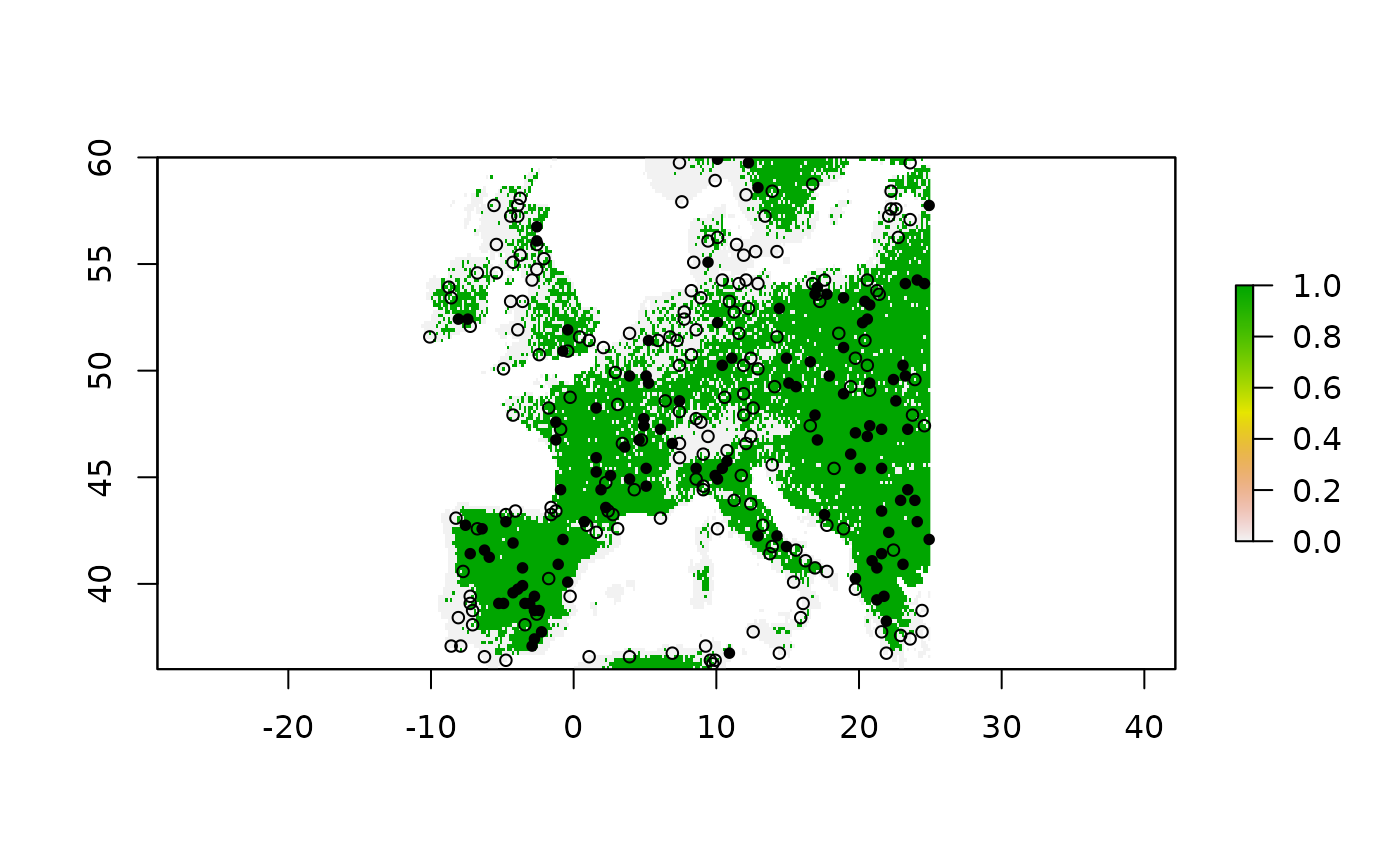
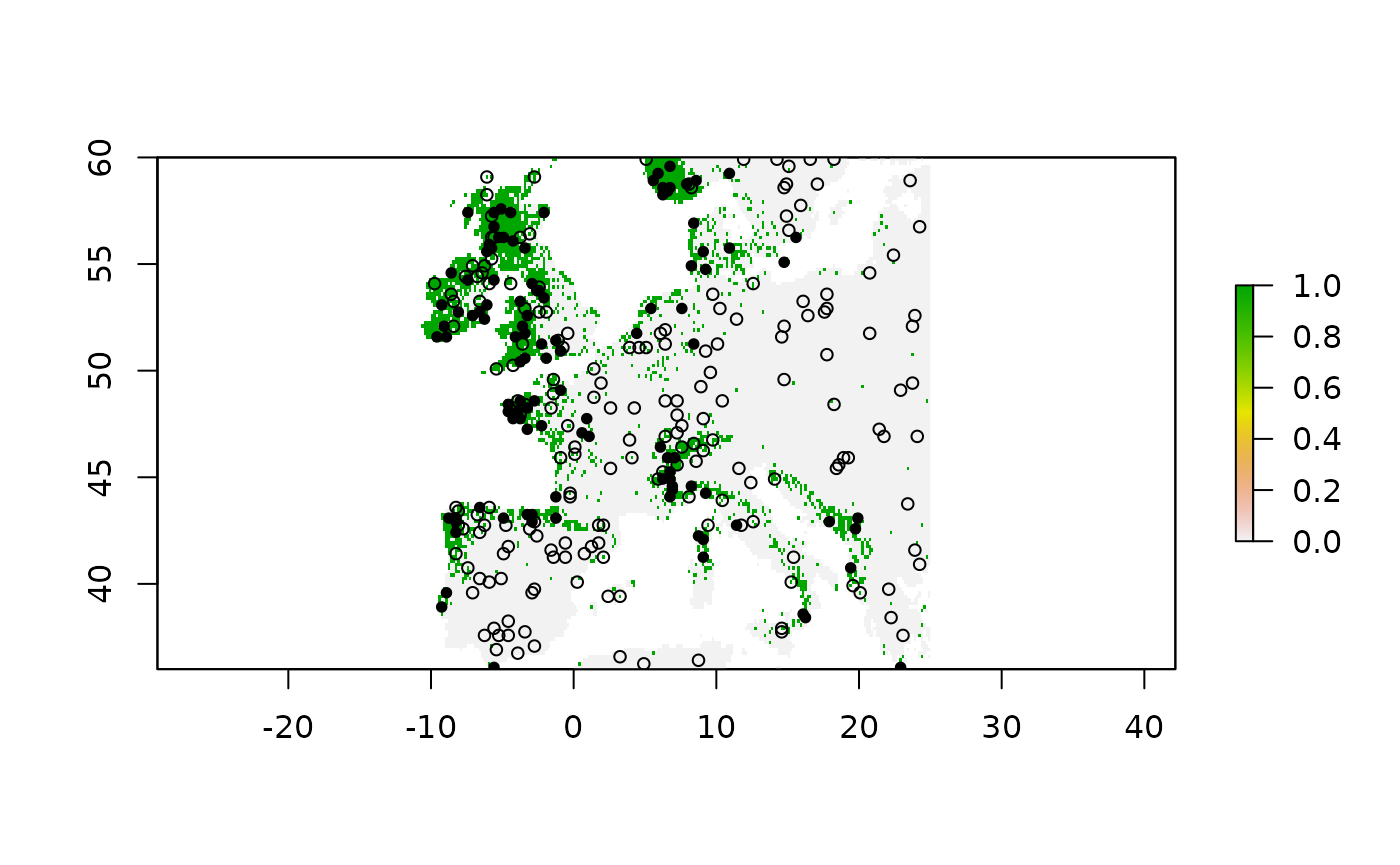
update website4

Changed region(s): [[0.2764, 0.1561, 0.6757, 0.7803], [0.43, 0.7491, 0.5221, 0.7803]]

diff --git a/docs/articles/USE_vignette.html b/docs/articles/USE_vignette.html
@@ -124,8 +124,8 @@ of the <strong>virtualspecies</strong> R package</p>
 <span class="fu"><a href="https://rdrr.io/pkg/raster/man/projection.html" class="external-link">crs</a></span><span class="op">(</span><span class="va">myPres</span><span class="op">)</span><span class="op">&lt;-</span><span class="va">myCRS</span>
 <span class="va">myPres</span>
 <span class="co">#&gt; class       : SpatialPointsDataFrame </span>
-<span class="co">#&gt; features    : 121 </span>
-<span class="co">#&gt; extent      : -8.083333, 24.91667, 36.75, 59.91667  (xmin, xmax, ymin, ymax)</span>
+<span class="co">#&gt; features    : 111 </span>
+<span class="co">#&gt; extent      : -9.583333, 22.91667, 36.08333, 59.58333  (xmin, xmax, ymin, ymax)</span>
 <span class="co">#&gt; crs         : +proj=longlat +datum=WGS84 +no_defs </span>
 <span class="co">#&gt; variables   : 1</span>
 <span class="co">#&gt; names       : Observed </span>
@@ -159,18 +159,18 @@ axes to create a new spatial object.</p>
 <code class="sourceCode R"><span class="fu"><a href="https://rdrr.io/r/utils/str.html" class="external-link">str</a></span><span class="op">(</span><span class="va">myObs</span><span class="op">)</span>
 <span class="co">#&gt; List of 2</span>
 <span class="co">#&gt;  $ Bkg.tr:Classes 'sf', 'data.table' and 'data.frame':   152 obs. of  4 variables:</span>
-<span class="co">#&gt;   ..$ x       : num [1:152] 9.08 9.25 8.75 22.58 9.42 ...</span>
-<span class="co">#&gt;   ..$ y       : num [1:152] 59.7 59.7 59.9 49.1 59.7 ...</span>
-<span class="co">#&gt;   ..$ ID      : chr [1:152] "132" "133" "25" "8504" ...</span>
-<span class="co">#&gt;   ..$ geometry:sfc_POINT of length 152; first list element:  'XY' num [1:2] -2.76 -2.65</span>
+<span class="co">#&gt;   ..$ x       : num [1:152] 9.25 8.92 9.25 9.08 10.08 ...</span>
+<span class="co">#&gt;   ..$ y       : num [1:152] 59.7 59.9 59.9 59.9 59.9 ...</span>
+<span class="co">#&gt;   ..$ ID      : chr [1:152] "133" "26" "28" "27" ...</span>
+<span class="co">#&gt;   ..$ geometry:sfc_POINT of length 152; first list element:  'XY' num [1:2] -3.43 -2.76</span>
 <span class="co">#&gt;   ..- attr(*, "sf_column")= chr "geometry"</span>
 <span class="co">#&gt;   ..- attr(*, "agr")= Factor w/ 3 levels "constant","aggregate",..: NA NA NA</span>
 <span class="co">#&gt;   .. ..- attr(*, "names")= chr [1:3] "x" "y" "ID"</span>
 <span class="co">#&gt;  $ Bkg.ts:Classes 'sf', 'data.table' and 'data.frame':   58 obs. of  4 variables:</span>
-<span class="co">#&gt;   ..$ x       : num [1:58] -8.75 20.08 -8.25 -8.75 -10.42 ...</span>
-<span class="co">#&gt;   ..$ y       : num [1:58] 40.9 39.7 41.7 42.4 52.1 ...</span>
-<span class="co">#&gt;   ..$ ID      : chr [1:58] "15964" "16870" "15323" "14751" ...</span>
-<span class="co">#&gt;   ..$ geometry:sfc_POINT of length 58; first list element:  'XY' num [1:2] 1.77 5.93</span>
+<span class="co">#&gt;   ..$ x       : num [1:58] -8.25 6.42 19.42 -8.92 -5.42 ...</span>
+<span class="co">#&gt;   ..$ y       : num [1:58] 41.6 37.1 42.1 43.4 55.7 ...</span>
+<span class="co">#&gt;   ..$ ID      : chr [1:58] "15458" "18322" "15143" "13809" ...</span>
+<span class="co">#&gt;   ..$ geometry:sfc_POINT of length 58; first list element:  'XY' num [1:2] 1.31 5.63</span>
 <span class="co">#&gt;   ..- attr(*, "sf_column")= chr "geometry"</span>
 <span class="co">#&gt;   ..- attr(*, "agr")= Factor w/ 3 levels "constant","aggregate",..: NA NA NA</span>
 <span class="co">#&gt;   .. ..- attr(*, "names")= chr [1:3] "x" "y" "ID"</span>
@@ -179,39 +179,39 @@ axes to create a new spatial object.</p>
 <span class="co">#&gt; Simple feature collection with 152 features and 3 fields</span>
 <span class="co">#&gt; Geometry type: POINT</span>
 <span class="co">#&gt; Dimension:     XY</span>
-<span class="co">#&gt; Bounding box:  xmin: -13.88005 ymin: -3.904563 xmax: 6.795268 ymax: 6.983347</span>
+<span class="co">#&gt; Bounding box:  xmin: -13.00796 ymin: -3.879611 xmax: 6.801079 ymax: 7.37198</span>
 <span class="co">#&gt; CRS:           NA</span>
 <span class="co">#&gt; First 10 features:</span>
 <span class="co">#&gt;              x        y   ID                     geometry</span>
-<span class="co">#&gt; 132   9.083333 59.75000  132  POINT (-2.755422 -2.649471)</span>
 <span class="co">#&gt; 133   9.250000 59.75000  133  POINT (-3.430072 -2.760282)</span>
-<span class="co">#&gt; 25    8.750000 59.91667   25  POINT (-4.041346 -2.577969)</span>
-<span class="co">#&gt; 8504 22.583333 49.08333 8504   POINT (-2.890885 -2.57662)</span>
-<span class="co">#&gt; 134   9.416667 59.75000  134   POINT (-3.270331 -2.84089)</span>
-<span class="co">#&gt; 2097 24.083333 56.25000 2097  POINT (-0.9445404 -3.62594)</span>
-<span class="co">#&gt; 7559 22.916667 50.08333 7559 POINT (-0.1007107 -3.158444)</span>
-<span class="co">#&gt; 7554 22.083333 50.08333 7554 POINT (-0.3439816 -3.904563)</span>
-<span class="co">#&gt; 453  15.750000 59.25000  453 POINT (-0.6153085 -2.942425)</span>
-<span class="co">#&gt; 2275 23.916667 55.91667 2275 POINT (-0.8349173 -3.707852)</span>
+<span class="co">#&gt; 26    8.916667 59.91667   26  POINT (-3.445481 -2.938089)</span>
+<span class="co">#&gt; 28    9.250000 59.91667   28  POINT (-3.741414 -3.044682)</span>
+<span class="co">#&gt; 27    9.083333 59.91667   27  POINT (-3.641179 -3.006921)</span>
+<span class="co">#&gt; 33   10.083333 59.91667   33  POINT (-2.869542 -2.947099)</span>
+<span class="co">#&gt; 674  23.250000 58.91667  674 POINT (-0.9675831 -3.370859)</span>
+<span class="co">#&gt; 4052 18.250000 53.41667 4052 POINT (-0.1285907 -3.217858)</span>
+<span class="co">#&gt; 4085 23.750000 53.41667 4085 POINT (-0.5232754 -3.721265)</span>
+<span class="co">#&gt; 4577 17.416667 52.91667 4577 POINT (0.05793579 -3.305579)</span>
+<span class="co">#&gt; 2836 24.916667 54.91667 2836 POINT (-0.8906584 -3.879611)</span>
 <span class="co">#background points for the testing dataset</span>
 <span class="va">myObs</span><span class="op">$</span><span class="va">Bkg.ts</span>
 <span class="co">#&gt; Simple feature collection with 58 features and 3 fields</span>
 <span class="co">#&gt; Geometry type: POINT</span>
 <span class="co">#&gt; Dimension:     XY</span>
-<span class="co">#&gt; Bounding box:  xmin: -10.70758 ymin: -4.408816 xmax: 6.008935 ymax: 7.277665</span>
+<span class="co">#&gt; Bounding box:  xmin: -11.38069 ymin: -4.343053 xmax: 6.072256 ymax: 6.927684</span>
 <span class="co">#&gt; CRS:           NA</span>
 <span class="co">#&gt; First 10 features:</span>
-<span class="co">#&gt;                x        y    ID                    geometry</span>
-<span class="co">#&gt; 15964  -8.750000 40.91667 15964   POINT (1.769022 5.931826)</span>
-<span class="co">#&gt; 16870  20.083333 39.75000 16870   POINT (2.347694 5.856895)</span>
-<span class="co">#&gt; 15323  -8.250000 41.75000 15323 POINT (-0.04943301 6.02367)</span>
-<span class="co">#&gt; 14751  -8.750000 42.41667 14751 POINT (-0.6341314 7.277665)</span>
-<span class="co">#&gt; 5360  -10.416667 52.08333  5360   POINT (-4.456471 6.41753)</span>
-<span class="co">#&gt; 5550  -10.250000 51.91667  5550  POINT (-4.411929 6.519204)</span>
-<span class="co">#&gt; 1638   -5.583333 56.91667  1638   POINT (-7.31892 6.835229)</span>
-<span class="co">#&gt; 1640   -5.250000 56.91667  1640  POINT (-7.365182 6.823649)</span>
-<span class="co">#&gt; 18328   9.083333 37.08333 18328   POINT (4.952212 4.280034)</span>
-<span class="co">#&gt; 17480  -8.583333 38.58333 17480   POINT (5.268476 3.646357)</span></code></pre></div>
+<span class="co">#&gt;                x        y    ID                   geometry</span>
+<span class="co">#&gt; 15458  -8.250000 41.58333 15458  POINT (1.312993 5.630423)</span>
+<span class="co">#&gt; 18322   6.416667 37.08333 18322  POINT (2.153198 6.204648)</span>
+<span class="co">#&gt; 15143  19.416667 42.08333 15143 POINT (-0.496393 6.254133)</span>
+<span class="co">#&gt; 13809  -8.916667 43.41667 13809 POINT (0.3347425 5.618271)</span>
+<span class="co">#&gt; 2289   -5.416667 55.75000  2289 POINT (-6.336793 6.297607)</span>
+<span class="co">#&gt; 5171  -10.416667 52.25000  5171 POINT (-4.094857 6.273209)</span>
+<span class="co">#&gt; 1827   -6.083333 56.58333  1827 POINT (-6.743163 6.927684)</span>
+<span class="co">#&gt; 1544   -5.250000 57.08333  1544 POINT (-7.639401 6.570823)</span>
+<span class="co">#&gt; 18393   3.583333 36.91667 18393  POINT (4.990701 4.395789)</span>
+<span class="co">#&gt; 18126  -8.750000 37.41667 18126  POINT (5.337805 3.674048)</span></code></pre></div>
 <p>Uniformly sampling background points in the environmental space,
 accounting for the species presence points.</p>
 <div class="sourceCode" id="cb11"><pre class="downlit sourceCode r">
@@ -229,150 +229,150 @@ accounting for the species presence points.</p>
 <div class="sourceCode" id="cb12"><pre class="downlit sourceCode r">
 <code class="sourceCode R"><span class="fu"><a href="https://rdrr.io/r/utils/str.html" class="external-link">str</a></span><span class="op">(</span><span class="va">myGrid.psAbs</span><span class="op">)</span>
 <span class="co">#&gt; List of 2</span>
-<span class="co">#&gt;  $ Bkg.tr:Classes 'sf' and 'data.frame': 403 obs. of  27 variables:</span>
-<span class="co">#&gt;   ..$ KDE     : num [1:403] 0.000352 0.00038 0.001166 0.004827 0.003407 ...</span>
-<span class="co">#&gt;   ..$ myID    : num [1:403] 125 128 130 142 143 ...</span>
-<span class="co">#&gt;   ..$ PA      : num [1:403] 0 0 0 0 0 0 0 0 0 0 ...</span>
-<span class="co">#&gt;   ..$ percP   : chr [1:403] "out" "out" "out" "out" ...</span>
-<span class="co">#&gt;   ..$ x       : num [1:403] 8.75 9.25 9.58 11.58 11.75 ...</span>
-<span class="co">#&gt;   ..$ y       : num [1:403] 59.9 59.9 59.9 59.9 59.9 ...</span>
-<span class="co">#&gt;   ..$ bio1    : num [1:403] 13 16 35 46 44 18 25 27 38 85 ...</span>
-<span class="co">#&gt;   ..$ bio2    : num [1:403] 75 76 76 69 70 73 73 73 72 85 ...</span>
-<span class="co">#&gt;   ..$ bio3    : num [1:403] 27 26 26 24 24 26 26 26 25 27 ...</span>
-<span class="co">#&gt;   ..$ bio4    : num [1:403] 7053 7328 7619 7597 7577 ...</span>
-<span class="co">#&gt;   ..$ bio5    : num [1:403] 164 171 193 199 197 168 176 180 191 247 ...</span>
-<span class="co">#&gt;   ..$ bio6    : num [1:403] -112 -113 -98 -85 -88 -106 -102 -100 -90 -63 ...</span>
-<span class="co">#&gt;   ..$ bio7    : num [1:403] 276 284 291 284 285 274 278 280 281 310 ...</span>
-<span class="co">#&gt;   ..$ bio8    : num [1:403] 66 101 123 99 96 71 109 113 92 182 ...</span>
-<span class="co">#&gt;   ..$ bio9    : num [1:403] -42 -40 -21 -13 -16 -37 -31 -29 -18 -10 ...</span>
-<span class="co">#&gt;   ..$ bio10   : num [1:403] 106 112 134 146 143 111 119 123 135 182 ...</span>
-<span class="co">#&gt;   ..$ bio11   : num [1:403] -76 -77 -62 -50 -53 -70 -66 -65 -56 -23 ...</span>
-<span class="co">#&gt;   ..$ bio12   : num [1:403] 844 820 756 798 793 839 817 806 772 513 ...</span>
-<span class="co">#&gt;   ..$ bio13   : num [1:403] 103 102 95 90 90 103 101 99 95 74 ...</span>
-<span class="co">#&gt;   ..$ bio14   : num [1:403] 41 41 37 41 41 41 41 41 38 23 ...</span>
-<span class="co">#&gt;   ..$ bio15   : num [1:403] 27 28 29 26 26 28 28 27 28 38 ...</span>
-<span class="co">#&gt;   ..$ bio16   : num [1:403] 282 277 258 261 258 281 273 269 261 201 ...</span>
-<span class="co">#&gt;   ..$ bio17   : num [1:403] 134 130 119 132 131 133 131 130 124 75 ...</span>
-<span class="co">#&gt;   ..$ bio18   : num [1:403] 264 265 245 246 248 262 258 255 243 201 ...</span>
-<span class="co">#&gt;   ..$ bio19   : num [1:403] 171 158 140 156 154 167 159 155 145 85 ...</span>
-<span class="co">#&gt;   ..$ ID      : chr [1:403] "16" "17" "18" "25" ...</span>
-<span class="co">#&gt;   ..$ geometry:sfc_POINT of length 403; first list element:  'XY' num [1:2] -4.04 -2.58</span>
+<span class="co">#&gt;  $ Bkg.tr:Classes 'sf' and 'data.frame': 391 obs. of  27 variables:</span>
+<span class="co">#&gt;   ..$ KDE     : num [1:391] 0.000352 0.00038 0.001166 0.004827 0.003407 ...</span>
+<span class="co">#&gt;   ..$ myID    : num [1:391] 125 128 130 142 143 ...</span>
+<span class="co">#&gt;   ..$ PA      : num [1:391] 0 0 0 0 0 0 0 0 0 0 ...</span>
+<span class="co">#&gt;   ..$ percP   : chr [1:391] "out" "out" "out" "out" ...</span>
+<span class="co">#&gt;   ..$ x       : num [1:391] 8.75 9.25 9.58 11.58 11.75 ...</span>
+<span class="co">#&gt;   ..$ y       : num [1:391] 59.9 59.9 59.9 59.9 59.9 ...</span>
+<span class="co">#&gt;   ..$ bio1    : num [1:391] 13 16 35 46 44 18 25 27 38 86 ...</span>
+<span class="co">#&gt;   ..$ bio2    : num [1:391] 75 76 76 69 70 73 73 73 72 85 ...</span>
+<span class="co">#&gt;   ..$ bio3    : num [1:391] 27 26 26 24 24 26 26 26 25 26 ...</span>
+<span class="co">#&gt;   ..$ bio4    : num [1:391] 7053 7328 7619 7597 7577 ...</span>
+<span class="co">#&gt;   ..$ bio5    : num [1:391] 164 171 193 199 197 168 176 180 191 250 ...</span>
+<span class="co">#&gt;   ..$ bio6    : num [1:391] -112 -113 -98 -85 -88 -106 -102 -100 -90 -66 ...</span>
+<span class="co">#&gt;   ..$ bio7    : num [1:391] 276 284 291 284 285 274 278 280 281 316 ...</span>
+<span class="co">#&gt;   ..$ bio8    : num [1:391] 66 101 123 99 96 71 109 113 92 185 ...</span>
+<span class="co">#&gt;   ..$ bio9    : num [1:391] -42 -40 -21 -13 -16 -37 -31 -29 -18 -13 ...</span>
+<span class="co">#&gt;   ..$ bio10   : num [1:391] 106 112 134 146 143 111 119 123 135 185 ...</span>
+<span class="co">#&gt;   ..$ bio11   : num [1:391] -76 -77 -62 -50 -53 -70 -66 -65 -56 -27 ...</span>
+<span class="co">#&gt;   ..$ bio12   : num [1:391] 844 820 756 798 793 839 817 806 772 519 ...</span>
+<span class="co">#&gt;   ..$ bio13   : num [1:391] 103 102 95 90 90 103 101 99 95 75 ...</span>
+<span class="co">#&gt;   ..$ bio14   : num [1:391] 41 41 37 41 41 41 41 41 38 23 ...</span>
+<span class="co">#&gt;   ..$ bio15   : num [1:391] 27 28 29 26 26 28 28 27 28 37 ...</span>
+<span class="co">#&gt;   ..$ bio16   : num [1:391] 282 277 258 261 258 281 273 269 261 203 ...</span>
+<span class="co">#&gt;   ..$ bio17   : num [1:391] 134 130 119 132 131 133 131 130 124 76 ...</span>
+<span class="co">#&gt;   ..$ bio18   : num [1:391] 264 265 245 246 248 262 258 255 243 203 ...</span>
+<span class="co">#&gt;   ..$ bio19   : num [1:391] 171 158 140 156 154 167 159 155 145 85 ...</span>
+<span class="co">#&gt;   ..$ ID      : chr [1:391] "16" "17" "18" "24" ...</span>
+<span class="co">#&gt;   ..$ geometry:sfc_POINT of length 391; first list element:  'XY' num [1:2] -4.04 -2.58</span>
 <span class="co">#&gt;   ..- attr(*, "sf_column")= chr "geometry"</span>
 <span class="co">#&gt;   ..- attr(*, "agr")= Factor w/ 3 levels "constant","aggregate",..: NA NA NA NA NA NA NA NA NA NA ...</span>
 <span class="co">#&gt;   .. ..- attr(*, "names")= chr [1:26] "KDE" "myID" "PA" "percP" ...</span>
-<span class="co">#&gt;  $ Bkg.ts:Classes 'sf' and 'data.frame': 283 obs. of  27 variables:</span>
-<span class="co">#&gt;   ..$ KDE     : num [1:283] 0.001702 0.000779 0.000445 0.000335 0.002528 ...</span>
-<span class="co">#&gt;   ..$ myID    : num [1:283] 25552 27055 30746 23111 25334 ...</span>
-<span class="co">#&gt;   ..$ PA      : num [1:283] 0 0 0 0 0 0 0 0 0 0 ...</span>
-<span class="co">#&gt;   ..$ percP   : chr [1:283] "out" "out" "out" "out" ...</span>
-<span class="co">#&gt;   ..$ x       : num [1:283] -8.42 20.08 6.25 -8.25 -7.75 ...</span>
-<span class="co">#&gt;   ..$ y       : num [1:283] 40.7 39.7 36.9 42.6 40.9 ...</span>
-<span class="co">#&gt;   ..$ bio1    : num [1:283] 141 157 169 118 116 139 141 134 142 110 ...</span>
-<span class="co">#&gt;   ..$ bio2    : num [1:283] 90 97 83 81 92 65 79 68 61 88 ...</span>
-<span class="co">#&gt;   ..$ bio3    : num [1:283] 43 36 34 39 38 40 43 40 39 39 ...</span>
-<span class="co">#&gt;   ..$ bio4    : num [1:283] 4100 5865 5554 4224 5256 ...</span>
-<span class="co">#&gt;   ..$ bio5    : num [1:283] 253 307 303 236 258 228 239 229 228 240 ...</span>
-<span class="co">#&gt;   ..$ bio6    : num [1:283] 45 39 62 29 16 66 59 60 72 15 ...</span>
-<span class="co">#&gt;   ..$ bio7    : num [1:283] 208 268 241 207 242 162 180 169 156 225 ...</span>
-<span class="co">#&gt;   ..$ bio8    : num [1:283] 95 99 101 72 53 107 96 100 109 59 ...</span>
-<span class="co">#&gt;   ..$ bio9    : num [1:283] 191 234 238 173 186 180 187 177 183 173 ...</span>
-<span class="co">#&gt;   ..$ bio10   : num [1:283] 193 234 244 175 186 184 189 181 186 174 ...</span>
-<span class="co">#&gt;   ..$ bio11   : num [1:283] 87 86 101 68 53 98 96 93 101 52 ...</span>
-<span class="co">#&gt;   ..$ bio12   : num [1:283] 1166 1283 1099 1440 1363 ...</span>
-<span class="co">#&gt;   ..$ bio13   : num [1:283] 164 219 197 214 207 149 179 158 155 191 ...</span>
-<span class="co">#&gt;   ..$ bio14   : num [1:283] 14 14 5 36 15 31 16 34 28 25 ...</span>
-<span class="co">#&gt;   ..$ bio15   : num [1:283] 52 66 70 45 56 41 52 40 44 50 ...</span>
-<span class="co">#&gt;   ..$ bio16   : num [1:283] 471 602 538 553 557 424 519 445 437 564 ...</span>
-<span class="co">#&gt;   ..$ bio17   : num [1:283] 79 57 38 143 90 125 86 132 116 118 ...</span>
-<span class="co">#&gt;   ..$ bio18   : num [1:283] 89 57 62 157 90 148 108 155 140 125 ...</span>
-<span class="co">#&gt;   ..$ bio19   : num [1:283] 460 554 538 538 557 379 519 407 383 564 ...</span>
-<span class="co">#&gt;   ..$ ID      : chr [1:283] "6958" "7513" "8326" "6032" ...</span>
-<span class="co">#&gt;   ..$ geometry:sfc_POINT of length 283; first list element:  'XY' num [1:2] 1.54 5.69</span>
+<span class="co">#&gt;  $ Bkg.ts:Classes 'sf' and 'data.frame': 247 obs. of  27 variables:</span>
+<span class="co">#&gt;   ..$ KDE     : num [1:247] 0.00171 0.001705 0.001702 0.00075 0.000842 ...</span>
+<span class="co">#&gt;   ..$ myID    : num [1:247] 24442 24664 25552 23329 22886 ...</span>
+<span class="co">#&gt;   ..$ PA      : num [1:247] 0 0 0 0 0 0 0 0 0 0 ...</span>
+<span class="co">#&gt;   ..$ percP   : chr [1:247] "out" "out" "out" "out" ...</span>
+<span class="co">#&gt;   ..$ x       : num [1:247] -8.42 -8.42 -8.42 -8.92 -8.75 ...</span>
+<span class="co">#&gt;   ..$ y       : num [1:247] 41.6 41.4 40.7 42.4 42.7 ...</span>
+<span class="co">#&gt;   ..$ bio1    : num [1:247] 142 142 141 147 137 136 140 139 131 125 ...</span>
+<span class="co">#&gt;   ..$ bio2    : num [1:247] 90 92 90 59 65 75 83 70 74 97 ...</span>
+<span class="co">#&gt;   ..$ bio3    : num [1:247] 42 43 43 38 38 38 40 41 39 40 ...</span>
+<span class="co">#&gt;   ..$ bio4    : num [1:247] 4238 4205 4100 3432 3649 ...</span>
+<span class="co">#&gt;   ..$ bio5    : num [1:247] 259 258 253 231 233 245 255 230 238 263 ...</span>
+<span class="co">#&gt;   ..$ bio6    : num [1:247] 48 46 45 79 63 51 50 63 49 23 ...</span>
+<span class="co">#&gt;   ..$ bio7    : num [1:247] 211 212 208 152 170 194 205 167 189 240 ...</span>
+<span class="co">#&gt;   ..$ bio8    : num [1:247] 96 95 95 112 100 94 94 102 93 63 ...</span>
+<span class="co">#&gt;   ..$ bio9    : num [1:247] 196 195 191 191 183 188 195 183 180 191 ...</span>
+<span class="co">#&gt;   ..$ bio10   : num [1:247] 197 196 193 192 186 190 196 185 183 192 ...</span>
+<span class="co">#&gt;   ..$ bio11   : num [1:247] 89 88 87 104 92 88 86 94 86 63 ...</span>
+<span class="co">#&gt;   ..$ bio12   : num [1:247] 1237 1232 1166 1245 1303 ...</span>
+<span class="co">#&gt;   ..$ bio13   : num [1:247] 168 166 164 177 191 197 203 195 178 195 ...</span>
+<span class="co">#&gt;   ..$ bio14   : num [1:247] 16 15 14 27 33 35 24 22 37 15 ...</span>
+<span class="co">#&gt;   ..$ bio15   : num [1:247] 51 51 52 47 45 45 49 51 41 55 ...</span>
+<span class="co">#&gt;   ..$ bio16   : num [1:247] 490 491 471 499 512 513 527 557 485 533 ...</span>
+<span class="co">#&gt;   ..$ bio17   : num [1:247] 86 85 79 113 131 133 111 103 141 89 ...</span>
+<span class="co">#&gt;   ..$ bio18   : num [1:247] 104 102 89 135 152 152 126 124 161 92 ...</span>
+<span class="co">#&gt;   ..$ bio19   : num [1:247] 486 483 460 459 475 487 515 551 453 533 ...</span>
+<span class="co">#&gt;   ..$ ID      : chr [1:247] "2789" "2844" "3121" "2528" ...</span>
+<span class="co">#&gt;   ..$ geometry:sfc_POINT of length 247; first list element:  'XY' num [1:2] 1.37 5.88</span>
 <span class="co">#&gt;   ..- attr(*, "sf_column")= chr "geometry"</span>
 <span class="co">#&gt;   ..- attr(*, "agr")= Factor w/ 3 levels "constant","aggregate",..: NA NA NA NA NA NA NA NA NA NA ...</span>
 <span class="co">#&gt;   .. ..- attr(*, "names")= chr [1:26] "KDE" "myID" "PA" "percP" ...</span>
 <span class="co">#background points for the training dataset</span>
 <span class="va">myGrid.psAbs</span><span class="op">$</span><span class="va">Bkg.tr</span>
-<span class="co">#&gt; Simple feature collection with 403 features and 26 fields</span>
+<span class="co">#&gt; Simple feature collection with 391 features and 26 fields</span>
 <span class="co">#&gt; Geometry type: POINT</span>
 <span class="co">#&gt; Dimension:     XY</span>
-<span class="co">#&gt; Bounding box:  xmin: -12.93306 ymin: -4.319617 xmax: 6.904118 ymax: 7.57643</span>
+<span class="co">#&gt; Bounding box:  xmin: -13.58791 ymin: -4.525187 xmax: 7.905102 ymax: 7.57643</span>
 <span class="co">#&gt; CRS:           NA</span>
 <span class="co">#&gt; First 10 features:</span>
-<span class="co">#&gt;               KDE  myID PA percP         x        y bio1 bio2 bio3 bio4 bio5</span>
-<span class="co">#&gt; 16   0.0003518053   125  0   out  8.750000 59.91667   13   75   27 7053  164</span>
-<span class="co">#&gt; 17   0.0003799395   128  0   out  9.250000 59.91667   16   76   26 7328  171</span>
-<span class="co">#&gt; 18   0.0011658064   130  0   out  9.583333 59.91667   35   76   26 7619  193</span>
-<span class="co">#&gt; 25   0.0048266103   142  0   out 11.583333 59.91667   46   69   24 7597  199</span>
-<span class="co">#&gt; 26   0.0034065575   143  0   out 11.750000 59.91667   44   70   24 7577  197</span>
-<span class="co">#&gt; 62   0.0004986511   348  0   out  8.916667 59.75000   18   73   26 7051  168</span>
-<span class="co">#&gt; 63   0.0006048808   350  0   out  9.250000 59.75000   25   73   26 7183  176</span>
-<span class="co">#&gt; 64   0.0006311931   351  0   out  9.416667 59.75000   27   73   26 7300  180</span>
-<span class="co">#&gt; 65   0.0034854319   352  0   out  9.583333 59.75000   38   72   25 7389  191</span>
-<span class="co">#&gt; 1885 0.0105299086 10395  0   out 18.416667 52.25000   85   85   27 7960  247</span>
-<span class="co">#&gt;      bio6 bio7 bio8 bio9 bio10 bio11 bio12 bio13 bio14 bio15 bio16 bio17 bio18</span>
-<span class="co">#&gt; 16   -112  276   66  -42   106   -76   844   103    41    27   282   134   264</span>
-<span class="co">#&gt; 17   -113  284  101  -40   112   -77   820   102    41    28   277   130   265</span>
-<span class="co">#&gt; 18    -98  291  123  -21   134   -62   756    95    37    29   258   119   245</span>
-<span class="co">#&gt; 25    -85  284   99  -13   146   -50   798    90    41    26   261   132   246</span>
-<span class="co">#&gt; 26    -88  285   96  -16   143   -53   793    90    41    26   258   131   248</span>
-<span class="co">#&gt; 62   -106  274   71  -37   111   -70   839   103    41    28   281   133   262</span>
-<span class="co">#&gt; 63   -102  278  109  -31   119   -66   817   101    41    28   273   131   258</span>
-<span class="co">#&gt; 64   -100  280  113  -29   123   -65   806    99    41    27   269   130   255</span>
-<span class="co">#&gt; 65    -90  281   92  -18   135   -56   772    95    38    28   261   124   243</span>
-<span class="co">#&gt; 1885  -63  310  182  -10   182   -23   513    74    23    38   201    75   201</span>
-<span class="co">#&gt;      bio19   ID                    geometry</span>
-<span class="co">#&gt; 16     171   16 POINT (-4.041346 -2.577969)</span>
-<span class="co">#&gt; 17     158   17 POINT (-3.741414 -3.044682)</span>
-<span class="co">#&gt; 18     140   18 POINT (-2.552753 -3.139665)</span>
-<span class="co">#&gt; 25     156   25 POINT (-2.562465 -2.663995)</span>
-<span class="co">#&gt; 26     154   26 POINT (-2.641587 -2.743201)</span>
-<span class="co">#&gt; 62     167   62 POINT (-3.853077 -2.523284)</span>
-<span class="co">#&gt; 63     159   63 POINT (-3.430072 -2.760282)</span>
-<span class="co">#&gt; 64     155   64  POINT (-3.270331 -2.84089)</span>
-<span class="co">#&gt; 65     145   65 POINT (-2.696467 -2.695892)</span>
-<span class="co">#&gt; 1885    85 1885 POINT (0.7707935 -3.578897)</span>
+<span class="co">#&gt;              KDE  myID PA percP         x        y bio1 bio2 bio3 bio4 bio5</span>
+<span class="co">#&gt; 16  0.0003518053   125  0   out  8.750000 59.91667   13   75   27 7053  164</span>
+<span class="co">#&gt; 17  0.0003799395   128  0   out  9.250000 59.91667   16   76   26 7328  171</span>
+<span class="co">#&gt; 18  0.0011658064   130  0   out  9.583333 59.91667   35   76   26 7619  193</span>
+<span class="co">#&gt; 24  0.0048266103   142  0   out 11.583333 59.91667   46   69   24 7597  199</span>
+<span class="co">#&gt; 25  0.0034065575   143  0   out 11.750000 59.91667   44   70   24 7577  197</span>
+<span class="co">#&gt; 52  0.0004986511   348  0   out  8.916667 59.75000   18   73   26 7051  168</span>
+<span class="co">#&gt; 53  0.0006048808   350  0   out  9.250000 59.75000   25   73   26 7183  176</span>
+<span class="co">#&gt; 54  0.0006311931   351  0   out  9.416667 59.75000   27   73   26 7300  180</span>
+<span class="co">#&gt; 55  0.0034854319   352  0   out  9.583333 59.75000   38   72   25 7389  191</span>
+<span class="co">#&gt; 896 0.0092067261 10619  0   out 18.750000 52.08333   86   85   26 8189  250</span>
+<span class="co">#&gt;     bio6 bio7 bio8 bio9 bio10 bio11 bio12 bio13 bio14 bio15 bio16 bio17 bio18</span>
+<span class="co">#&gt; 16  -112  276   66  -42   106   -76   844   103    41    27   282   134   264</span>
+<span class="co">#&gt; 17  -113  284  101  -40   112   -77   820   102    41    28   277   130   265</span>
+<span class="co">#&gt; 18   -98  291  123  -21   134   -62   756    95    37    29   258   119   245</span>
+<span class="co">#&gt; 24   -85  284   99  -13   146   -50   798    90    41    26   261   132   246</span>
+<span class="co">#&gt; 25   -88  285   96  -16   143   -53   793    90    41    26   258   131   248</span>
+<span class="co">#&gt; 52  -106  274   71  -37   111   -70   839   103    41    28   281   133   262</span>
+<span class="co">#&gt; 53  -102  278  109  -31   119   -66   817   101    41    28   273   131   258</span>
+<span class="co">#&gt; 54  -100  280  113  -29   123   -65   806    99    41    27   269   130   255</span>
+<span class="co">#&gt; 55   -90  281   92  -18   135   -56   772    95    38    28   261   124   243</span>
+<span class="co">#&gt; 896  -66  316  185  -13   185   -27   519    75    23    37   203    76   203</span>
+<span class="co">#&gt;     bio19  ID                    geometry</span>
+<span class="co">#&gt; 16    171  16 POINT (-4.041346 -2.577969)</span>
+<span class="co">#&gt; 17    158  17 POINT (-3.741414 -3.044682)</span>
+<span class="co">#&gt; 18    140  18 POINT (-2.552753 -3.139665)</span>
+<span class="co">#&gt; 24    156  24 POINT (-2.562465 -2.663995)</span>
+<span class="co">#&gt; 25    154  25 POINT (-2.641587 -2.743201)</span>
+<span class="co">#&gt; 52    167  52 POINT (-3.853077 -2.523284)</span>
+<span class="co">#&gt; 53    159  53 POINT (-3.430072 -2.760282)</span>
+<span class="co">#&gt; 54    155  54  POINT (-3.270331 -2.84089)</span>
+<span class="co">#&gt; 55    145  55 POINT (-2.696467 -2.695892)</span>
+<span class="co">#&gt; 896    85 896 POINT (0.7497721 -3.794284)</span>
 <span class="co">#background points for the testing dataset</span>
 <span class="va">myGrid.psAbs</span><span class="op">$</span><span class="va">Bkg.ts</span>
-<span class="co">#&gt; Simple feature collection with 283 features and 26 fields</span>
+<span class="co">#&gt; Simple feature collection with 247 features and 26 fields</span>
 <span class="co">#&gt; Geometry type: POINT</span>
 <span class="co">#&gt; Dimension:     XY</span>
-<span class="co">#&gt; Bounding box:  xmin: -12.67491 ymin: -4.279468 xmax: 7.266502 ymax: 7.630419</span>
+<span class="co">#&gt; Bounding box:  xmin: -12.93306 ymin: -4.470215 xmax: 7.134326 ymax: 7.243574</span>
 <span class="co">#&gt; CRS:           NA</span>
 <span class="co">#&gt; First 10 features:</span>
 <span class="co">#&gt;               KDE  myID PA percP         x        y bio1 bio2 bio3 bio4 bio5</span>
-<span class="co">#&gt; 6958 0.0017022386 25552  0   out -8.416667 40.75000  141   90   43 4100  253</span>
-<span class="co">#&gt; 7513 0.0007789755 27055  0   out 20.083333 39.75000  157   97   36 5865  307</span>
-<span class="co">#&gt; 8326 0.0004451012 30746  0   out  6.250000 36.91667  169   83   34 5554  303</span>
-<span class="co">#&gt; 6032 0.0003354085 23111  0   out -8.250000 42.58333  118   81   39 4224  236</span>
-<span class="co">#&gt; 6874 0.0025282850 25334  0   out -7.750000 40.91667  116   92   38 5256  258</span>
-<span class="co">#&gt; 5688 0.0023747209 22220  0   out -8.750000 43.25000  139   65   40 3318  228</span>
-<span class="co">#&gt; 6524 0.0004454349 24440  0   out -8.750000 41.58333  141   79   43 3665  239</span>
-<span class="co">#&gt; 5689 0.0023260366 22221  0   out -8.583333 43.25000  134   68   40 3439  229</span>
-<span class="co">#&gt; 5951 0.0016181030 22884  0   out -9.083333 42.75000  142   61   39 3314  228</span>
-<span class="co">#&gt; 6444 0.0015495774 24222  0   out -8.083333 41.75000  110   88   39 4781  240</span>
+<span class="co">#&gt; 2789 0.0017098970 24442  0   out -8.416667 41.58333  142   90   42 4238  259</span>
+<span class="co">#&gt; 2844 0.0017052325 24664  0   out -8.416667 41.41667  142   92   43 4205  258</span>
+<span class="co">#&gt; 3121 0.0017022386 25552  0   out -8.416667 40.75000  141   90   43 4100  253</span>
+<span class="co">#&gt; 2528 0.0007502071 23329  0   out -8.916667 42.41667  147   59   38 3432  231</span>
+<span class="co">#&gt; 2415 0.0008424206 22886  0   out -8.750000 42.75000  137   65   38 3649  233</span>
+<span class="co">#&gt; 2417 0.0015354148 22888  0   out -8.416667 42.75000  136   75   38 3992  245</span>
+<span class="co">#&gt; 2615 0.0007172080 23776  0   out -8.416667 42.08333  140   83   40 4278  255</span>
+<span class="co">#&gt; 2685 0.0005364094 23995  0   out -8.916667 41.91667  139   70   41 3559  230</span>
+<span class="co">#&gt; 2298 0.0022476612 22444  0   out -8.416667 43.08333  131   74   39 3785  238</span>
+<span class="co">#&gt; 2971 0.0019660070 25111  0   out -7.916667 41.08333  125   97   40 5059  263</span>
 <span class="co">#&gt;      bio6 bio7 bio8 bio9 bio10 bio11 bio12 bio13 bio14 bio15 bio16 bio17 bio18</span>
-<span class="co">#&gt; 6958   45  208   95  191   193    87  1166   164    14    52   471    79    89</span>
-<span class="co">#&gt; 7513   39  268   99  234   234    86  1283   219    14    66   602    57    57</span>
-<span class="co">#&gt; 8326   62  241  101  238   244   101  1099   197     5    70   538    38    62</span>
-<span class="co">#&gt; 6032   29  207   72  173   175    68  1440   214    36    45   553   143   157</span>
-<span class="co">#&gt; 6874   16  242   53  186   186    53  1363   207    15    56   557    90    90</span>
-<span class="co">#&gt; 5688   66  162  107  180   184    98  1101   149    31    41   424   125   148</span>
-<span class="co">#&gt; 6524   59  180   96  187   189    96  1294   179    16    52   519    86   108</span>
-<span class="co">#&gt; 5689   60  169  100  177   181    93  1166   158    34    40   445   132   155</span>
-<span class="co">#&gt; 5951   72  156  109  183   186   101  1099   155    28    44   437   116   140</span>
-<span class="co">#&gt; 6444   15  225   59  173   174    52  1439   191    25    50   564   118   125</span>
-<span class="co">#&gt;      bio19   ID                     geometry</span>
-<span class="co">#&gt; 6958   460 6958    POINT (1.542256 5.692237)</span>
-<span class="co">#&gt; 7513   554 7513    POINT (2.347694 5.856895)</span>
-<span class="co">#&gt; 8326   538 8326    POINT (3.139598 5.771852)</span>
-<span class="co">#&gt; 6032   538 6032   POINT (-1.280663 6.432327)</span>
-<span class="co">#&gt; 6874   557 6874   POINT (0.1700701 5.615775)</span>
-<span class="co">#&gt; 5688   379 5688   POINT (0.3010213 5.706642)</span>
-<span class="co">#&gt; 6524   519 6524   POINT (0.7525088 6.777952)</span>
-<span class="co">#&gt; 5689   407 5689 POINT (-0.09016363 5.843338)</span>
-<span class="co">#&gt; 5951   383 5951   POINT (0.4103784 5.871312)</span>
-<span class="co">#&gt; 6444   564 6444  POINT (-0.7818401 5.834994)</span></code></pre></div>
+<span class="co">#&gt; 2789   48  211   96  196   197    89  1237   168    16    51   490    86   104</span>
+<span class="co">#&gt; 2844   46  212   95  195   196    88  1232   166    15    51   491    85   102</span>
+<span class="co">#&gt; 3121   45  208   95  191   193    87  1166   164    14    52   471    79    89</span>
+<span class="co">#&gt; 2528   79  152  112  191   192   104  1245   177    27    47   499   113   135</span>
+<span class="co">#&gt; 2415   63  170  100  183   186    92  1303   191    33    45   512   131   152</span>
+<span class="co">#&gt; 2417   51  194   94  188   190    88  1331   197    35    45   513   133   152</span>
+<span class="co">#&gt; 2615   50  205   94  195   196    86  1333   203    24    49   527   111   126</span>
+<span class="co">#&gt; 2685   63  167  102  183   185    94  1387   195    22    51   557   103   124</span>
+<span class="co">#&gt; 2298   49  189   93  180   183    86  1279   178    37    41   485   141   161</span>
+<span class="co">#&gt; 2971   23  240   63  191   192    63  1319   195    15    55   533    89    92</span>
+<span class="co">#&gt;      bio19   ID                    geometry</span>
+<span class="co">#&gt; 2789   486 2789   POINT (1.365366 5.883568)</span>
+<span class="co">#&gt; 2844   483 2844   POINT (1.427406 5.881983)</span>
+<span class="co">#&gt; 3121   460 3121   POINT (1.542256 5.692237)</span>
+<span class="co">#&gt; 2528   459 2528   POINT (0.163082 6.698573)</span>
+<span class="co">#&gt; 2415   475 2415 POINT (-0.4722045 6.569908)</span>
+<span class="co">#&gt; 2417   487 2417   POINT (-0.33467 6.342836)</span>
+<span class="co">#&gt; 2615   515 2615    POINT (0.3737173 6.4411)</span>
+<span class="co">#&gt; 2685   551 2685 POINT (-0.1233187 7.243574)</span>
+<span class="co">#&gt; 2298   453 2298   POINT (-0.4609637 6.0103)</span>
+<span class="co">#&gt; 2971   533 2971  POINT (0.7414445 5.624752)</span></code></pre></div>
   </main>
 </div>
 
